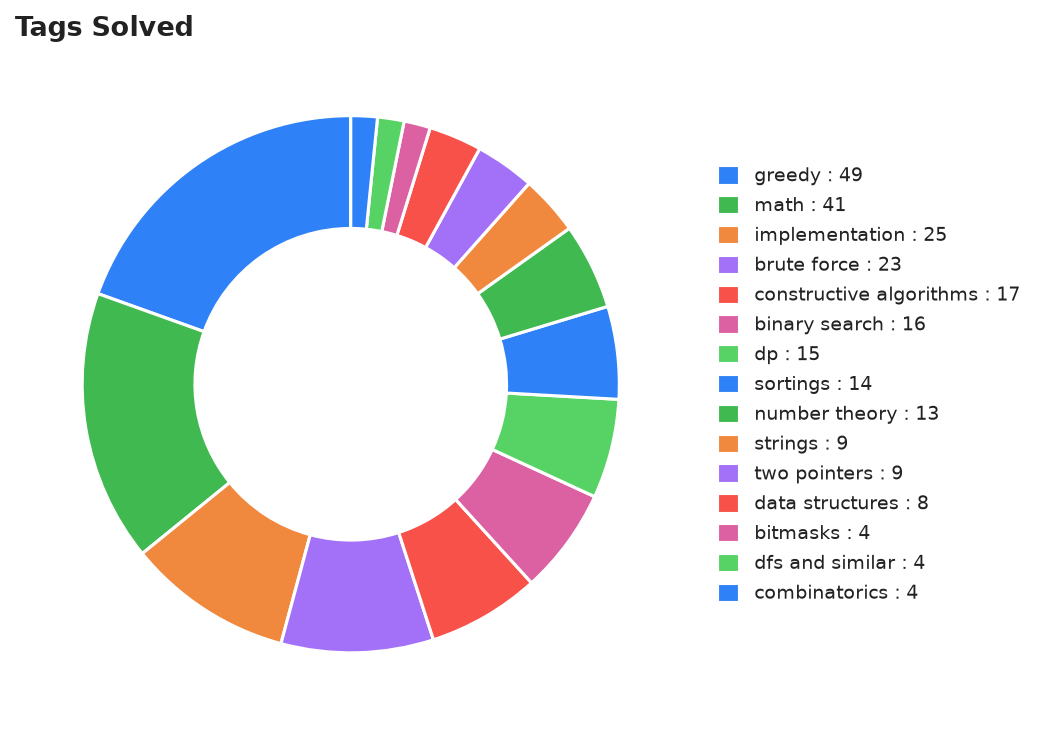
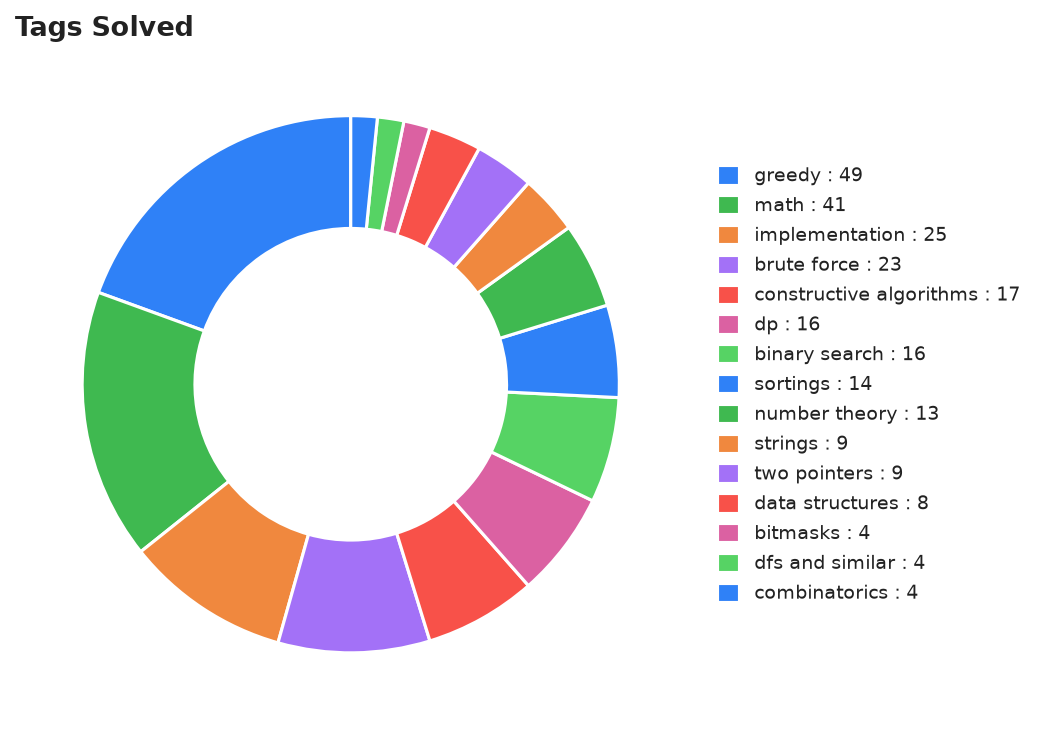
Sync: refresh analytics (rating/streak update, no new problems)

diff --git a/README.md b/README.md
@@ -59,8 +59,8 @@ Auto-generated archive of accepted Codeforces submissions for **[om_sharma_](htt
 | `implementation` | 25 |
 | `brute force` | 23 |
 | `constructive algorithms` | 17 |
+| `dp` | 16 |
 | `binary search` | 16 |
-| `dp` | 15 |
 | `sortings` | 14 |
 | `number theory` | 13 |
 | `strings` | 9 |
@@ -93,7 +93,7 @@ Auto-generated archive of accepted Codeforces submissions for **[om_sharma_](htt
 | 2245B | [Delete and Concatenate](problems/greedy/Unrated_2245B-Delete-and-Concatenate) | ? | `greedy` | — | [CF](https://codeforces.com/contest/2245/problem/B) |
 | 2246A | [farmpiggie and Subset Sum](problems/constructive-algorithms/Unrated_2246A-farmpiggie-and-Subset-Sum) | ? | `constructive algorithms` | — | [CF](https://codeforces.com/contest/2246/problem/A) |
 | 2246B | [ezraft and Array](problems/constructive-algorithms/Unrated_2246B-ezraft-and-Array) | ? | `constructive algorithms`, `number theory` | — | [CF](https://codeforces.com/contest/2246/problem/B) |
-| 2247A | [Zero Sum](problems/constructive-algorithms/Unrated_2247A-Zero-Sum) | ? | `constructive algorithms`, `number theory` | — | [CF](https://codeforces.com/contest/2247/problem/A) |
+| 2247A | [Zero Sum](problems/constructive-algorithms/Unrated_2247A-Zero-Sum) | ? | `constructive algorithms`, `dp`, `number theory` | — | [CF](https://codeforces.com/contest/2247/problem/A) |
 | 4A | [Watermelon](problems/brute-force/0800_4A-Watermelon) | 800 | `brute force`, `math` | — | [CF](https://codeforces.com/contest/4/problem/A) |
 | 263A | [Beautiful Matrix](problems/implementation/0800_263A-Beautiful-Matrix) | 800 | `implementation` | — | [CF](https://codeforces.com/contest/263/problem/A) |
 | 1493A | [Anti-knapsack](problems/constructive-algorithms/0800_1493A-Anti-knapsack) | 800 | `constructive algorithms`, `greedy` | — | [CF](https://codeforces.com/contest/1493/problem/A) |